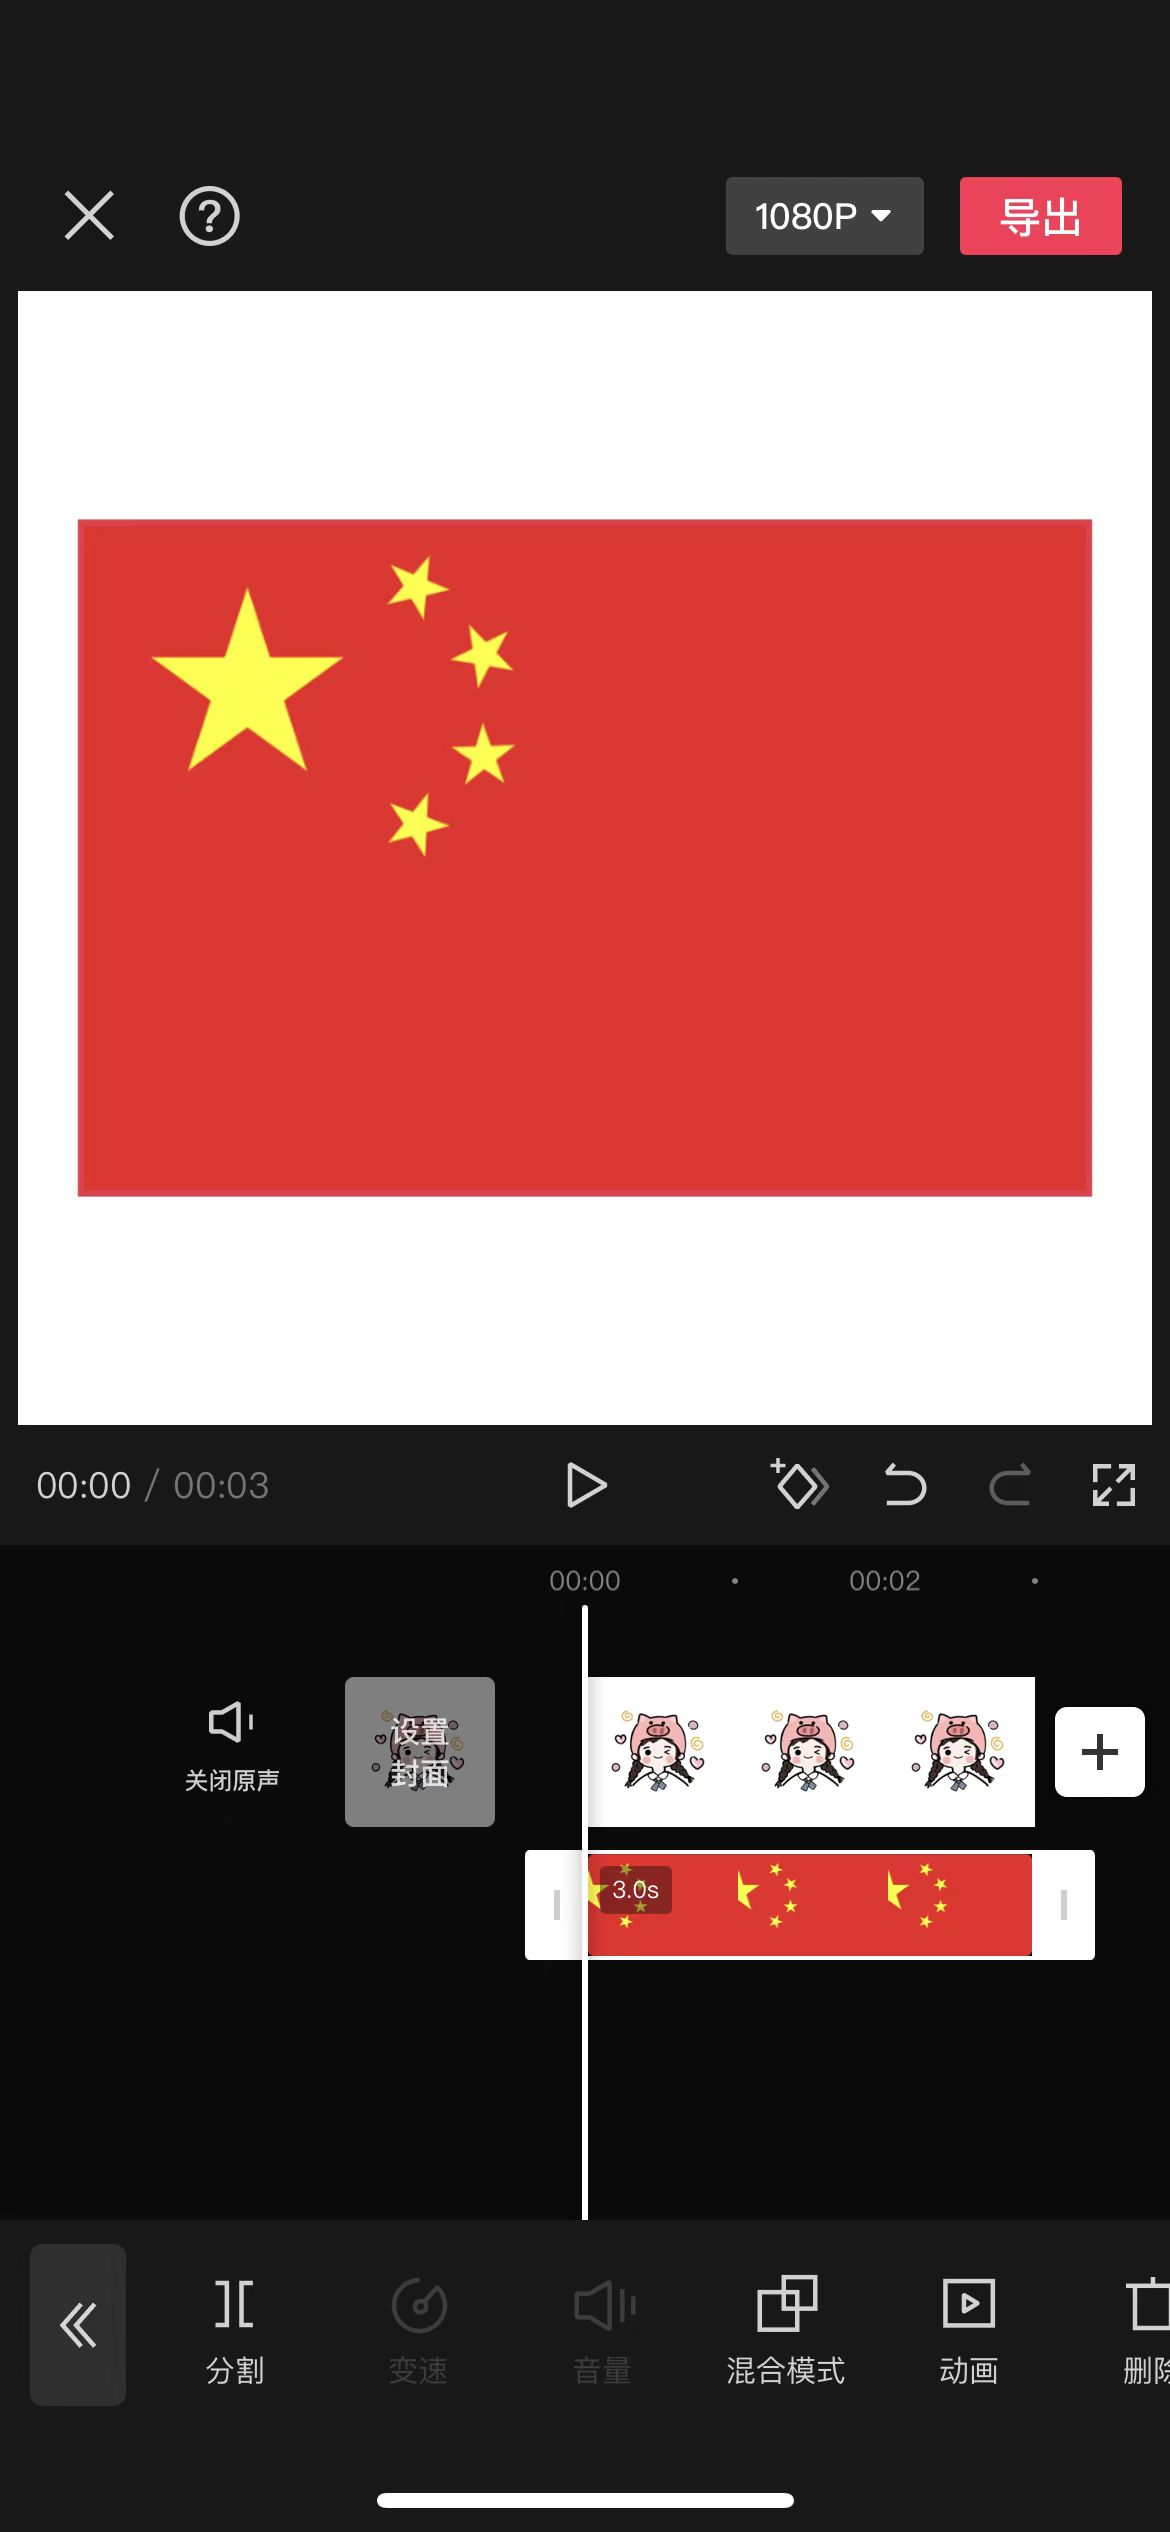
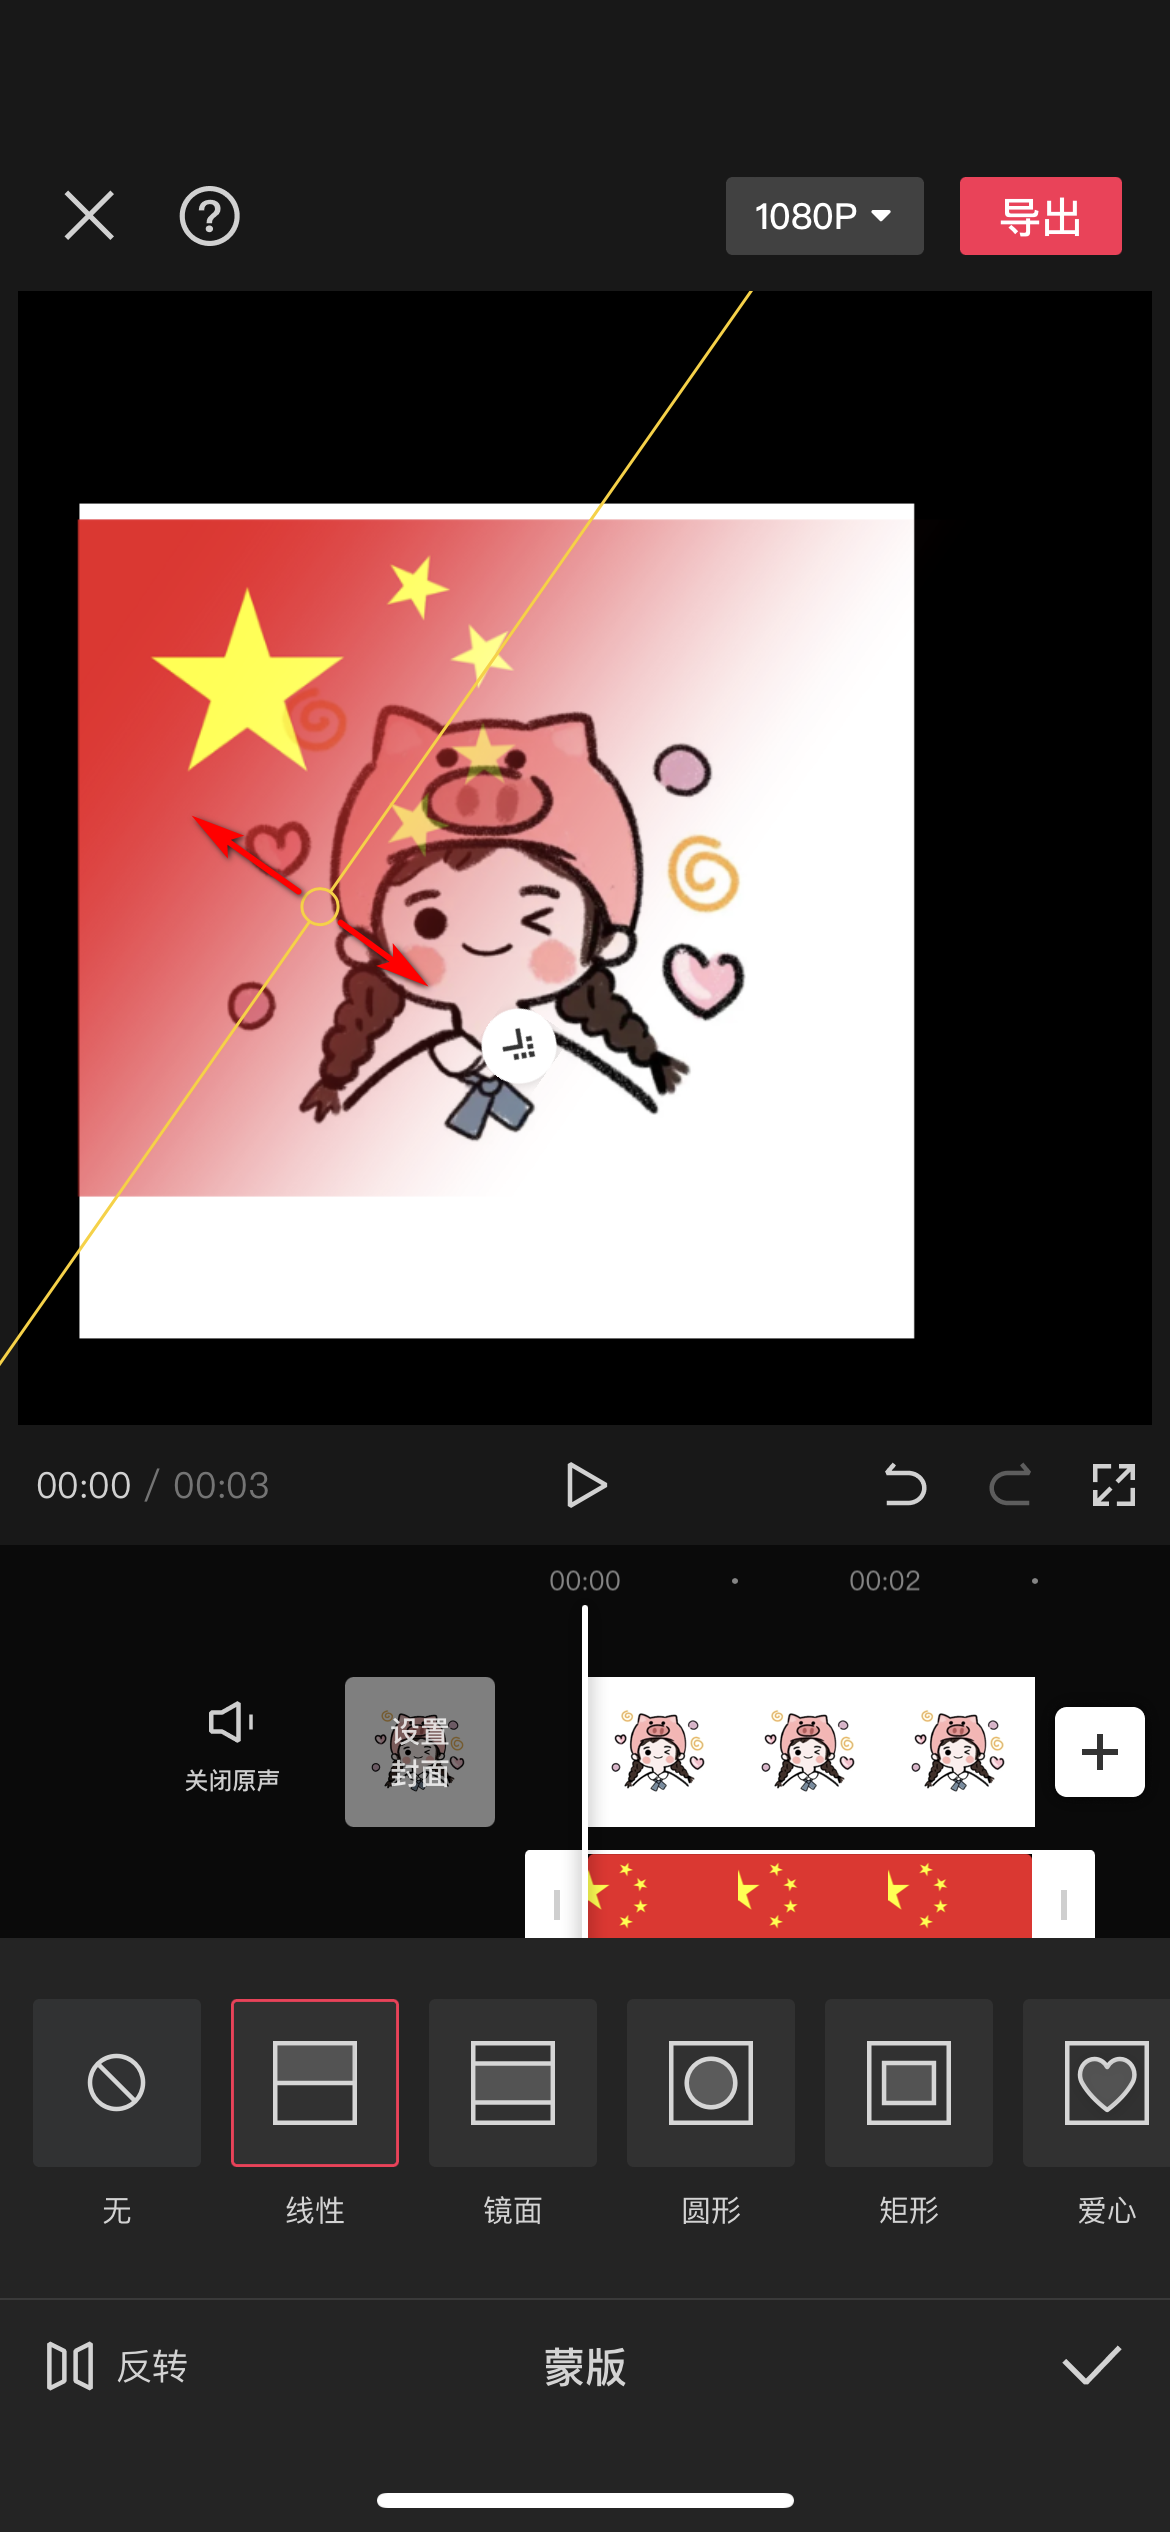
update gq

diff --git a/_posts/2022/09/2022-09-13-国庆头像制作.md b/_posts/2022/09/2022-09-13-国庆头像制作.md
@@ -57,16 +57,13 @@ hello，大家好！马上就要国庆了。
 
 此处使用“剪映”app，下载后导入头像，
 
-<img src="https://www.javanorth.cn/assets/images/2022/lyj/GQ/GQ02.png" alt="image-20220913225634542" style="zoom: 33%;" /><img src="https://www.javanorth.cn/assets/images/2022/lyj/GQ/GQ03.png" alt="image-20220913231250553" style="zoom:33%;" />
-
-
+![Comb1](https://www.javanorth.cn/assets/images/2022/lyj/GQ/Comb1.jpg)
 
 #### 3.再导入国旗图案
 
 然后点击“**新增画中画**”，然后在添加国旗图案，下面向左边滑动选择“**蒙版**”
 
-<img src="https://www.javanorth.cn/assets/images/2022/lyj/GQ/GQ04.png" alt="image-20220913230108960" style="zoom:33%;" /><img src="https://www.javanorth.cn/assets/images/2022/lyj/GQ/GQ05.png" alt="image-20220913231444492" style="zoom:33%;" />
-
+![Comb2](https://www.javanorth.cn/assets/images/2022/lyj/GQ/Comb2.jpg)
 
 
 #### 4.调整图层大小
@@ -75,7 +72,7 @@ hello，大家好！马上就要国庆了。
 
 选择”**线性**“之后可以两个手指同时调整黄线的角度，然后单手推拉黄线，调整透明渐变图案
 
-<img src="https://www.javanorth.cn/assets/images/2022/lyj/GQ/GQ06.png" alt="image-20220913231706436" style="zoom:33%;" /><img src="https://www.javanorth.cn/assets/images/2022/lyj/GQ/GQ07.png" alt="image-20220913232205878" style="zoom:33%;" />
+![Comb3](https://www.javanorth.cn/assets/images/2022/lyj/GQ/Comb3.jpg)
 
 #### 5.保存内容，截图
 
